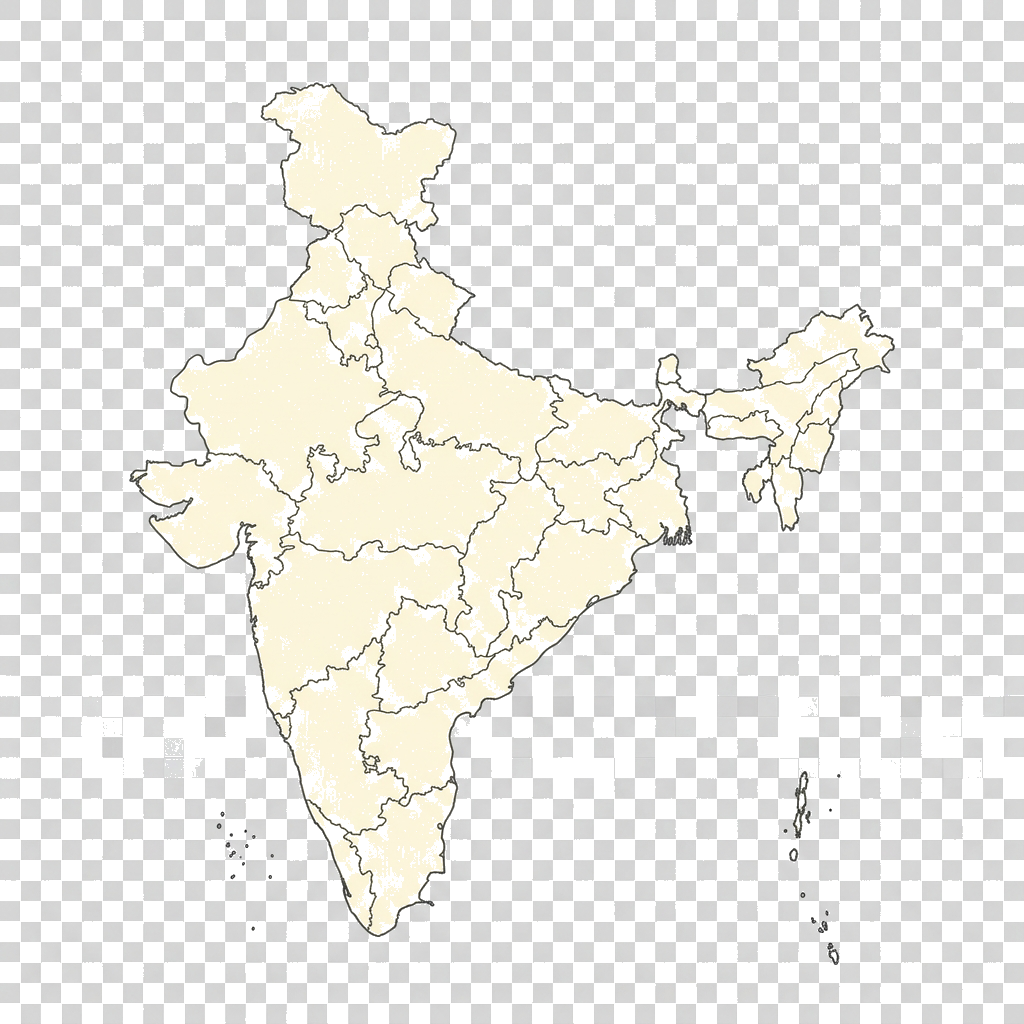
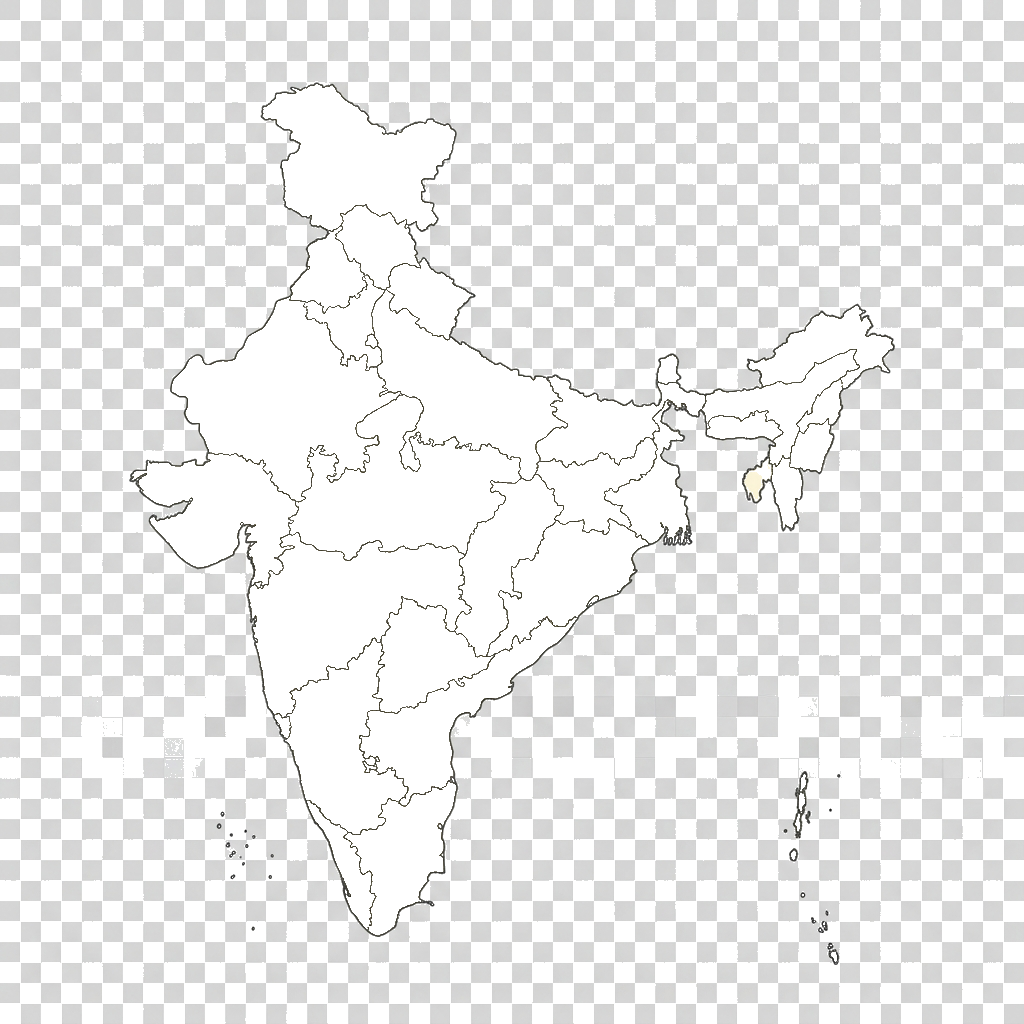
Fill map landmass with solid white background, restore map graphic opacity, and ensure clean outlines and hover tooltips for all distributor pins

Changed region(s): [[0.125, 0.0938, 0.875, 0.9062]]

diff --git a/channels.html b/channels.html
@@ -627,13 +627,11 @@
             background: url('india_map_outline.png') no-repeat center center;
             background-size: contain;
             position: relative;
-            opacity: 0.28;
+            opacity: 1.0;
             transition: var(--transition);
         }
         
-        .map-wrapper:hover .map-graphic {
-            opacity: 0.45;
-        }
+        
         
         .map-pin {
             position: absolute;